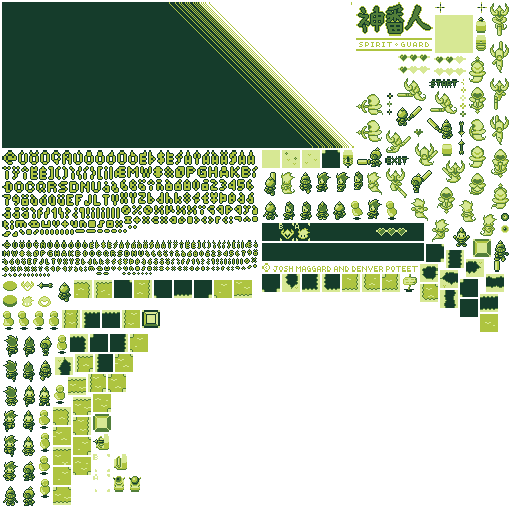
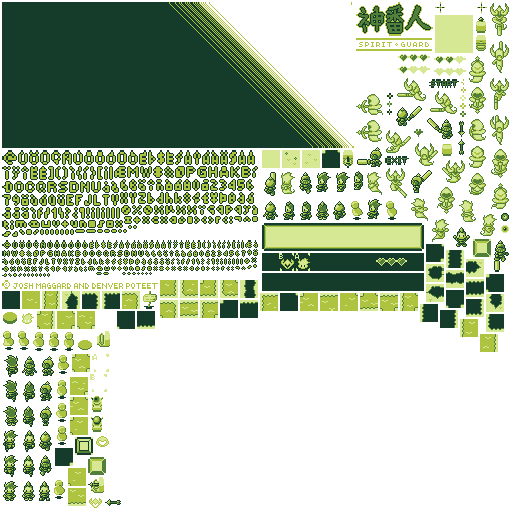
Spirit pickups actually do things now

Changed region(s): [[0.0, 0.4375, 1.0, 1.0]]

diff --git a/Assets/Resources/Scripts/GameObjects/Player.cs b/Assets/Resources/Scripts/GameObjects/Player.cs
@@ -16,6 +16,7 @@ public class Player : FutileFourDirectionBaseObject
     private bool canJump = false;
     private bool canSword = false;
     private bool canBow = false;
+    public bool CanJump { get { return canJump; } set { world.ui.UpdateHasJump(value); canJump = value; } }
     public int Health
     {
         get { return _health; }
@@ -32,10 +33,11 @@ public class Player : FutileFourDirectionBaseObject
     public FutilePlatformerBaseObject swordCollision;
     public float invulnCount = 0;
     float invulnerableStunTime = .6f;
-    SecondaryItem selectedItem = SecondaryItem.SWORD;
+    SecondaryItem selectedItem = SecondaryItem.NONE;
 
     public enum SecondaryItem
     {
+        NONE,
         SWORD,
         BOW
     }
@@ -140,7 +142,12 @@ public class Player : FutileFourDirectionBaseObject
 
     public void PickupSoul(SoulPickup soul)
     {
-
+        switch (soul.Type)
+        {
+            case SoulPickup.SoulType.JUMP: CanJump = true; break;
+            case SoulPickup.SoulType.SWORD: canSword = true; selectedItem = SecondaryItem.SWORD; world.ui.UpdateSelectedItem(selectedItem); break;
+            case SoulPickup.SoulType.BOW: canBow = true; selectedItem = SecondaryItem.BOW; world.ui.UpdateSelectedItem(selectedItem);  break;
+        }
     }
 
     public void TakeDamage(Vector2 pos)
@@ -176,7 +183,6 @@ public class Player : FutileFourDirectionBaseObject
         yAcc = 0;
 
     }
-
 
 
     bool hasSpawnedSpiritParticles = false;
@@ -229,7 +235,7 @@ public class Player : FutileFourDirectionBaseObject
                     if (RXRandom.Float() < .04f)
                         SpawnParticles((Direction)((int)(_direction + 2) % Enum.GetValues(typeof(Direction)).Length), 1);
                 shouldDamage = false;
-                if (C.getKey(C.JUMP_KEY))
+                if (C.getKey(C.JUMP_KEY) && CanJump)
                 {
                     FSoundManager.PlaySound("jump");
                     State = PlayerState.JUMP;
@@ -281,12 +287,18 @@ public class Player : FutileFourDirectionBaseObject
                 float attackDisp = 3f;
                 if (C.getKey(C.SELECT_KEY) && !lastSelectPress)
                 {
-                    if (selectedItem == SecondaryItem.SWORD)
+                    if (selectedItem == SecondaryItem.SWORD && canBow)
+                    {
+                        FSoundManager.PlaySound("swap");
                         selectedItem = SecondaryItem.BOW;
-                    else
+                        world.ui.UpdateSelectedItem(selectedItem);
+                    }
+                    else if (selectedItem == SecondaryItem.BOW && canSword)
+                    {
+                        FSoundManager.PlaySound("swap");
                         selectedItem = SecondaryItem.SWORD;
-                    FSoundManager.PlaySound("swap");
-                    world.ui.UpdateSelectedItem(selectedItem);
+                        world.ui.UpdateSelectedItem(selectedItem);
+                    }
                 }
                 if (C.getKey(C.ACTION_KEY) && !lastActionPress)
                 {
@@ -447,7 +459,7 @@ public class Player : FutileFourDirectionBaseObject
                         float attack2Time = .25f;
                         float attack2Dist = 20;
                         float attack2Disp = 5f;
-                        State = PlayerState.SWORD_TWO; 
+                        State = PlayerState.SWORD_TWO;
                         FSoundManager.PlaySound("swordTwo");
                         hasSpawnedSpiritParticles = false;
                         if (C.getKey(C.RIGHT_KEY))

diff --git a/Assets/Resources/Scripts/GameObjects/SoulPickup.cs b/Assets/Resources/Scripts/GameObjects/SoulPickup.cs
@@ -71,10 +71,21 @@ public class SoulPickup : FutilePlatformerBaseObject
                                 label.RemoveFromContainer();
                                 Go.to(playerPickup, 1.0f, new TweenConfig().floatProp("x", playerRelativePosition.x).floatProp("y", playerRelativePosition.y).setEaseType(EaseType.QuadInOut).onComplete(() =>
                                 {
-                                    FSoundManager.TweenVolume(1.0f);
-                                    world.HideLoading(() => { p.isVisible = true; playerPickup.RemoveFromContainer(); });
+                                    FSoundManager.TweenVolume(1.0f); 
+                                    p.PickupSoul(this);
+                                    world.HideLoading(() => { p.isVisible = true; playerPickup.RemoveFromContainer(); this.RemoveFromContainer(); });
                                 }));
-                                Go.to(this, 1.0f, new TweenConfig().floatProp("y", 100, true).setEaseType(EaseType.QuadIn).onComplete(() => { this.RemoveFromContainer(); }));
+                                Vector2 powerupPos;
+                                switch(type)
+                                {
+                                    case SoulType.JUMP:
+                                        powerupPos = world.ui.slotAPos;
+                                        break;
+                                    default:
+                                        powerupPos = world.ui.slotBPos;
+                                        break;
+                                }
+                                Go.to(this, 1.0f, new TweenConfig().floatProp("x", powerupPos.x).floatProp("y", powerupPos.y).setEaseType(EaseType.QuadInOut));
                             }));
                         }));
                     }));
@@ -91,7 +102,7 @@ public class SoulPickup : FutilePlatformerBaseObject
             Vector2 vel = new Vector2(RXRandom.Float() * 30 - 15f, RXRandom.Float() * 20);
             Vector2 acc = new Vector2(RXRandom.Float() * 5, RXRandom.Float() * 10);
 
-            p.activate(this.GetPosition() + new Vector2(RXRandom.Float() * 16 -8f, RXRandom.Float() * 13 - 10), vel, acc, RXRandom.Bool() ? 180.0f : 0);
+            p.activate(this.GetPosition() + new Vector2(RXRandom.Float() * 16 - 8f, RXRandom.Float() * 13 - 10), vel, acc, RXRandom.Bool() ? 180.0f : 0);
             this.container.AddChild(p);
         }
     }

diff --git a/Assets/Resources/Scripts/UI.cs b/Assets/Resources/Scripts/UI.cs
@@ -13,6 +13,9 @@ public class UI : FContainer
     FSprite slotBSelected;
     FSprite hearts;
 
+    public Vector2 slotAPos { get { return slotASelected.GetPosition(); } }
+    public Vector2 slotBPos { get { return slotBSelected.GetPosition(); } }
+
     FSprite selectedSoul;
     public UI()
     {
@@ -28,6 +31,8 @@ public class UI : FContainer
         this.AddChild(slotASelected);
         this.AddChild(slotBSelected);
         this.AddChild(hearts);
+        slotASelected.isVisible = false;
+        slotBSelected.isVisible = false;
         background.y = Futile.screen.halfHeight - background.height / 2f;
         slotB.y = background.y;
         slotA.y = background.y;
@@ -39,6 +44,12 @@ public class UI : FContainer
         slotBSelected.x += 1;
         hearts.y = background.y;
         hearts.x = Futile.screen.halfWidth - hearts.width / 2f - 20;
+
+    }
+
+    public void UpdateHasJump(bool hasJump)
+    {
+        slotASelected.isVisible = hasJump;
     }
 
     internal void UpdateSelectedItem(Player.SecondaryItem selectedItem)
@@ -48,11 +59,16 @@ public class UI : FContainer
         {
             switch (selectedItem)
             {
+                case Player.SecondaryItem.NONE:
+                    slotBSelected.isVisible = false;
+                    break;
                 case Player.SecondaryItem.SWORD:
                     slotBSelected.SetElementByName("sword_soul");
+                    slotBSelected.isVisible = true;
                     break;
                 case Player.SecondaryItem.BOW:
                     slotBSelected.SetElementByName("bow_soul");
+                    slotBSelected.isVisible = true;
                     break;
             }
             Go.to(slotBSelected, .5f, new TweenConfig().floatProp("y", Futile.screen.halfHeight - slotBSelected.height / 2f).setEaseType(EaseType.QuadOut));
